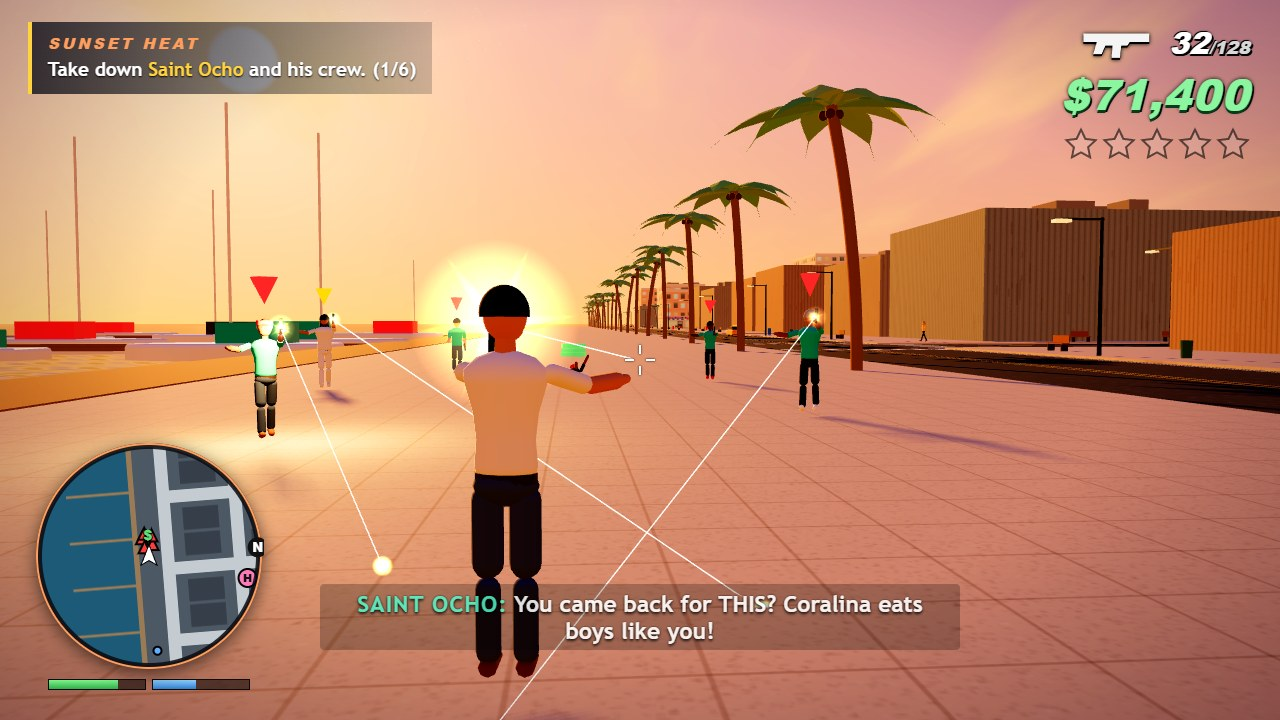
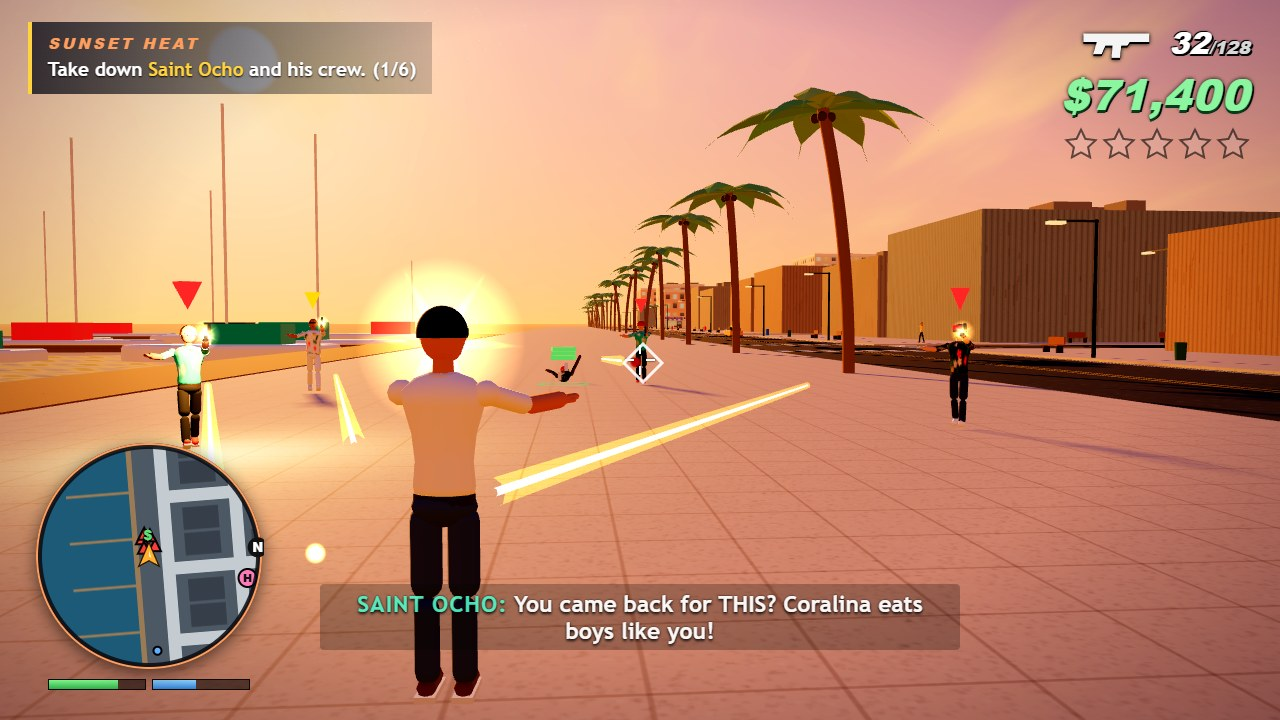
Polish: police livery and light spill, glowing tracers, better people
White/black CBPD cruisers with road light spill, helicopter searchlight
on the chase, short glowing tracer streaks, wider over-the-shoulder aim,
humanoids with ears, brows, sunglasses, hair styles, tropical-print
shirts, hands and soled shoes, a gold radar arrow, busier streets.

diff --git a/game/src/humanoid.js b/game/src/humanoid.js
@@ -11,6 +11,53 @@ function mat(color, rough = 0.75, metal = 0) {
   return matCache.get(key);
 }
 
+/** A tropical print for shirts: leaves and hibiscus over the base colour. */
+const printCache = new Map();
+function printTexture(base) {
+  if (printCache.has(base)) return printCache.get(base);
+  const c = document.createElement('canvas');
+  c.width = c.height = 128;
+  const d = c.getContext('2d');
+  const col = new THREE.Color(base);
+  d.fillStyle = '#' + col.getHexString();
+  d.fillRect(0, 0, 128, 128);
+  let seed = base % 997;
+  const r = () => ((seed = (seed * 16807) % 2147483647) / 2147483647);
+  for (let i = 0; i < 26; i++) {
+    const x = r() * 128;
+    const y = r() * 128;
+    d.save();
+    d.translate(x, y);
+    d.rotate(r() * 6.28);
+    if (r() < 0.55) {
+      d.fillStyle = r() < 0.5 ? 'rgba(20,90,50,0.85)' : 'rgba(40,140,80,0.8)';
+      d.beginPath();
+      d.ellipse(0, 0, 13, 4.5, 0, 0, Math.PI * 2);
+      d.fill();
+    } else {
+      d.fillStyle = ['#fff4e0', '#ff4f6d', '#ffd23f', '#ffffff'][Math.floor(r() * 4)];
+      for (let k = 0; k < 5; k++) {
+        d.rotate(1.2566);
+        d.beginPath();
+        d.ellipse(5, 0, 5, 3, 0, 0, Math.PI * 2);
+        d.fill();
+      }
+      d.fillStyle = '#7a2a10';
+      d.beginPath();
+      d.arc(0, 0, 2, 0, 6.28);
+      d.fill();
+    }
+    d.restore();
+  }
+  const t = new THREE.CanvasTexture(c);
+  t.colorSpace = THREE.SRGBColorSpace;
+  t.wrapS = t.wrapT = THREE.RepeatWrapping;
+  t.repeat.set(2, 1);
+  const m = new THREE.MeshStandardMaterial({ map: t, roughness: 0.8 });
+  printCache.set(base, m);
+  return m;
+}
+
 const G = {};
 function geos() {
   if (G.torso) return G;
@@ -30,7 +77,17 @@ function geos() {
   G.brim = new THREE.CylinderGeometry(0.0, 0.11, 0.015, 14, 1, false, -Math.PI / 2, Math.PI).translate(0, 0.05, 0.1);
   G.upperArm = new THREE.CapsuleGeometry(0.052, 0.2, 4, 8).translate(0, -0.13, 0);
   G.foreArm = new THREE.CapsuleGeometry(0.045, 0.2, 4, 8).translate(0, -0.12, 0);
-  G.hand = new THREE.SphereGeometry(0.05, 8, 6).scale(0.8, 1.1, 0.6).translate(0, -0.27, 0);
+  G.hand = new THREE.CapsuleGeometry(0.036, 0.06, 3, 8).scale(1.15, 1, 0.62).translate(0, -0.29, 0);
+  G.thumb = new THREE.CapsuleGeometry(0.014, 0.035, 3, 6).rotateZ(0.5).translate(0.03, -0.27, 0.015);
+  G.deltoid = new THREE.SphereGeometry(0.068, 10, 8).scale(1, 0.9, 0.95);
+  G.collar = new THREE.TorusGeometry(0.065, 0.018, 6, 14).rotateX(Math.PI / 2).translate(0, 0.6, 0.005);
+  G.ear = new THREE.SphereGeometry(0.026, 6, 6).scale(0.5, 1, 0.8);
+  G.brow = new THREE.BoxGeometry(0.04, 0.009, 0.012);
+  G.mouth = new THREE.BoxGeometry(0.045, 0.008, 0.01);
+  G.shades = new THREE.BoxGeometry(0.17, 0.035, 0.02);
+  G.sole = new THREE.BoxGeometry(0.1, 0.03, 0.24).translate(0, -0.465, 0.05);
+  G.bun = new THREE.SphereGeometry(0.06, 10, 8).translate(0, 0.08, -0.1);
+  G.afro = new THREE.SphereGeometry(0.15, 12, 10).scale(1.05, 0.95, 1.05).translate(0, 0.05, -0.02);
   G.thigh = new THREE.CapsuleGeometry(0.078, 0.3, 4, 8).translate(0, -0.2, 0);
   G.shin = new THREE.CapsuleGeometry(0.062, 0.3, 4, 8).translate(0, -0.2, 0);
   G.foot = new THREE.CapsuleGeometry(0.048, 0.14, 4, 8).rotateX(Math.PI / 2).translate(0, -0.42, 0.05);
@@ -50,11 +107,12 @@ export function randomLook(kind = 'civilian') {
   const look = {
     skin: pick(SKIN), hair: pick(HAIR), shirt: pick(SHIRTS), pants: pick(PANTS), shoes: pick([0x222222, 0xffffff, 0x8a5a3a, 0xd04040]),
     build: 0.9 + rand() * 0.22, height: 0.94 + rand() * 0.12, longHair: rand() < 0.4, shorts: rand() < 0.35, skirt: rand() < 0.15, cap: rand() < 0.15, capColor: pick(SHIRTS), vest: false,
+    print: rand() < 0.3, shades: rand() < 0.3, hairStyle: pick(['short', 'short', 'bun', 'afro', 'bald']),
   };
-  if (kind === 'cop') Object.assign(look, { shirt: 0x24365e, pants: 0x1c2741, shoes: 0x111111, cap: true, capColor: 0x1c2741, shorts: false, skirt: false, longHair: false, vest: true, vestColor: 0x2a2f36 });
-  if (kind === 'thug') Object.assign(look, { shirt: pick([0x14b8a6, 0x0f766e, 0x111111]), pants: pick([0x1f1f1f, 0x2b3a55]), cap: rand() < 0.6, capColor: 0xd7263d, shorts: false, skirt: false, longHair: false, build: 1.08 });
-  if (kind === 'player') Object.assign(look, { skin: 0xc98b62, hair: 0x1a120c, shirt: 0xf6f1e4, pants: 0x3a4a63, shoes: 0x6b3d24, longHair: false, shorts: false, skirt: false, cap: false, build: 1.05, height: 1.02, vest: false, vestColor: 0x34404c });
-  if (kind === 'boss') Object.assign(look, { shirt: 0xf2f2f2, pants: 0xf2f2f2, shoes: 0xf2f2f2, cap: false, build: 1.18, height: 1.05, shorts: false, skirt: false, hair: 0x111111 });
+  if (kind === 'cop') Object.assign(look, { print: false, shades: rand() < 0.5, hairStyle: 'short', shirt: 0x24365e, pants: 0x1c2741, shoes: 0x111111, cap: true, capColor: 0x1c2741, shorts: false, skirt: false, longHair: false, vest: true, vestColor: 0x2a2f36 });
+  if (kind === 'thug') Object.assign(look, { print: rand() < 0.5, hairStyle: 'short', shirt: pick([0x14b8a6, 0x0f766e, 0x111111]), pants: pick([0x1f1f1f, 0x2b3a55]), cap: rand() < 0.6, capColor: 0xd7263d, shorts: false, skirt: false, longHair: false, build: 1.08 });
+  if (kind === 'player') Object.assign(look, { print: false, shades: true, hairStyle: 'short', skin: 0xc98b62, hair: 0x1a120c, shirt: 0xf6f1e4, pants: 0x3a4a63, shoes: 0x6b3d24, longHair: false, shorts: false, skirt: false, cap: false, build: 1.05, height: 1.02, vest: false, vestColor: 0x34404c });
+  if (kind === 'boss') Object.assign(look, { print: true, shades: true, hairStyle: 'bald', shirt: 0xf2f2f2, pants: 0xf2f2f2, shoes: 0xf2f2f2, cap: false, build: 1.18, height: 1.05, shorts: false, skirt: false, hair: 0x111111 });
   return look;
 }
 
@@ -67,7 +125,7 @@ export class Humanoid {
     this.hips.position.y = 0.95;
     this.root.add(this.hips);
     const skin = mat(look.skin, 0.6);
-    const shirt = mat(look.shirt, 0.8);
+    const shirt = look.print ? printTexture(look.shirt) : mat(look.shirt, 0.8);
     const pants = mat(look.pants, 0.85);
     const shoes = mat(look.shoes, 0.5);
     const add = (parent, geo, material, x = 0, y = 0, z = 0) => {
@@ -87,6 +145,7 @@ export class Humanoid {
     if (look.vest) add(this.chest, g.vest, mat(look.vestColor || 0x2a2f36, 0.7)).scale.set(look.build * 1.02, 1, look.build * 1.05);
     if (look.skirt) add(this.hips, g.skirt, pants);
     add(this.chest, g.neck, skin, 0, 0.65, 0);
+    add(this.chest, g.collar, mat(new THREE.Color(look.shirt).multiplyScalar(0.8).getHex(), 0.8));
     this.head = new THREE.Group();
     this.head.position.y = 0.79;
     this.chest.add(this.head);
@@ -96,8 +155,17 @@ export class Humanoid {
     const eyeMat = mat(0x111111, 0.3);
     add(this.head, g.eye, eyeMat, -0.04, 0.015, 0.1);
     add(this.head, g.eye, eyeMat, 0.04, 0.015, 0.1);
-    add(this.head, g.hairShort, mat(look.hair, 0.9));
-    if (look.longHair) add(this.head, g.hairLong, mat(look.hair, 0.9));
+    const hairMat = mat(look.hair, 0.9);
+    const style = look.longHair ? 'long' : look.hairStyle || 'short';
+    if (style !== 'bald' || look.cap) add(this.head, style === 'afro' ? g.afro : g.hairShort, hairMat);
+    if (style === 'long') add(this.head, g.hairLong, hairMat);
+    if (style === 'bun') add(this.head, g.bun, hairMat);
+    for (const s of [-1, 1]) {
+      add(this.head, g.ear, skin, s * 0.105, 0, 0);
+      add(this.head, g.brow, hairMat, s * 0.04, 0.045, 0.104).rotation.z = s * -0.12;
+    }
+    add(this.head, g.mouth, mat(0x6a2a24, 0.6), 0, -0.07, 0.1);
+    if (look.shades) add(this.head, g.shades, mat(0x101418, 0.15, 0.6), 0, 0.018, 0.108);
     if (look.cap) {
       add(this.head, g.cap, mat(look.capColor, 0.7));
       add(this.head, g.brim, mat(look.capColor, 0.7));
@@ -107,12 +175,14 @@ export class Humanoid {
       const shoulder = new THREE.Group();
       shoulder.position.set(s * sw, 0.52, 0);
       this.chest.add(shoulder);
+      add(shoulder, g.deltoid, shirt);
       add(shoulder, g.upperArm, shirt);
       const elbow = new THREE.Group();
       elbow.position.y = -0.27;
       shoulder.add(elbow);
       add(elbow, g.foreArm, skin);
       add(elbow, g.hand, skin);
+      add(elbow, g.thumb, skin).rotation.y = s > 0 ? 0 : Math.PI;
       shoulder.rotation.z = s * 0.08;
       return { shoulder, elbow };
     });
@@ -126,6 +196,7 @@ export class Humanoid {
       hip.add(knee);
       add(knee, g.shin, look.shorts || look.skirt ? skin : pants);
       add(knee, g.foot, shoes);
+      add(knee, g.sole, mat(0xf2f2ee, 0.7));
       return { hip, knee };
     });
     // a pistol carried in the right hand, shown when armed

diff --git a/game/src/vehicles.js b/game/src/vehicles.js
@@ -34,7 +34,7 @@ export const VEHICLE_TYPES = {
   },
   police: {
     label: 'CBPD Interceptor', len: 4.7, wid: 1.95, wheelR: 0.38, wheelbase: 2.8, maxSpeed: 60, accel: 23, brake: 40, grip: 7, steer: 0.58, mass: 1.35,
-    colors: [0x101318],
+    colors: [0xf4f6f8],
     body: [[-2.35, 0.33], [2.32, 0.33], [2.38, 0.72], [1.3, 0.93], [-1.9, 0.97], [-2.36, 0.94], [-2.42, 0.6]],
     cabin: [[1.32, 0.92], [0.45, 1.42], [-1.0, 1.45], [-1.9, 0.96]],
   },
@@ -163,9 +163,22 @@ function buildModel(typeName, color) {
       door.rotation.y = s * Math.PI / 2;
       body.add(door);
     }
-    const hood = new THREE.Mesh(new THREE.BoxGeometry(T.wid * 0.84, 0.04, 1.0), paint(0xf4f6f8));
-    hood.position.set(0, 0.95, -1.4);
+    const hood = new THREE.Mesh(new THREE.BoxGeometry(T.wid * 0.86, 0.05, 1.1), paint(0x101318));
+    hood.position.set(0, 0.96, 1.75);
+    hood.rotation.x = 0.08;
     body.add(hood);
+    const trunk = new THREE.Mesh(new THREE.BoxGeometry(T.wid * 0.86, 0.05, 0.6), paint(0x101318));
+    trunk.position.set(0, 0.99, -2.05);
+    body.add(trunk);
+    const skirt = new THREE.Mesh(new THREE.BoxGeometry(T.wid + 0.02, 0.26, T.len * 0.92), paint(0x101318));
+    skirt.position.set(0, 0.47, 0);
+    body.add(skirt);
+    // red and blue light spilling onto the road round the cruiser
+    const spill = new THREE.Mesh(new THREE.PlaneGeometry(9, 11), new THREE.MeshBasicMaterial({ map: glowTexture(), color: 0xff2040, transparent: true, opacity: 0.5, blending: THREE.AdditiveBlending, depthWrite: false, toneMapped: false }));
+    spill.rotation.x = -Math.PI / 2;
+    spill.position.y = 0.07;
+    root.add(spill);
+    extras.spill = spill;
     const barY = Math.max(T.cabin[1][1], T.cabin[2][1]) + 0.14;
     const barZ = (T.cabin[1][0] + T.cabin[2][0]) / 2 + 0.2;
     const base = new THREE.Mesh(new THREE.BoxGeometry(1.3, 0.08, 0.3), m.dark);
@@ -397,6 +410,11 @@ export class Vehicle {
       const on = this.siren && (phase || Math.floor(t * 21) % 3 === 0);
       s.glow.visible = on;
       s.lamp.material.emissiveIntensity = on ? 4 : 0.3;
+    }
+    if (this.extras.spill) {
+      const red = Math.floor(t * 7) % 2 === 0;
+      this.extras.spill.visible = this.siren;
+      this.extras.spill.material.color.set(red ? 0xff2040 : 0x2a60ff);
     }
     const night = this.game.day ? this.game.day.nightAmount : 0;
     for (const b of this.beams) {

diff --git a/game/src/effects.js b/game/src/effects.js
@@ -34,7 +34,6 @@ export class Effects {
     this.scene.add(this.flashLight);
     this.flashT = 0;
     this.tracers = [];
-    this.tracerMat = new THREE.LineBasicMaterial({ color: 0xfff2b0, transparent: true, opacity: 0.9, blending: THREE.AdditiveBlending });
     this.markers = [];
   }
 
@@ -78,11 +77,27 @@ export class Effects {
     this.flashT = time;
   }
 
+  /** A short glowing streak travelling down the bullet's path. */
   tracer(from, to) {
-    const g = new THREE.BufferGeometry().setFromPoints([from.clone(), to.clone()]);
-    const line = new THREE.Line(g, this.tracerMat.clone());
+    const dir = to.clone().sub(from);
+    const dist = dir.length();
+    if (dist < 0.5) return;
+    dir.normalize();
+    const len = Math.min(5, dist * 0.6);
+    const mid = from.clone().addScaledVector(dir, Math.min(dist - len / 2, dist * 0.45 + len / 2));
+    if (!this.tracerGeo) {
+      this.tracerGeo = new THREE.CylinderGeometry(0.035, 0.012, 1, 6, 1, true);
+      this.tracerGlowGeo = new THREE.CylinderGeometry(0.12, 0.04, 1, 8, 1, true);
+    }
+    const core = new THREE.Mesh(this.tracerGeo, new THREE.MeshBasicMaterial({ color: 0xfff0b0, transparent: true, blending: THREE.AdditiveBlending, depthWrite: false, toneMapped: false }));
+    const glow = new THREE.Mesh(this.tracerGlowGeo, new THREE.MeshBasicMaterial({ color: 0xff8a20, transparent: true, opacity: 0.45, blending: THREE.AdditiveBlending, depthWrite: false, toneMapped: false }));
+    const line = new THREE.Group();
+    line.add(core, glow);
+    line.position.copy(mid);
+    line.quaternion.setFromUnitVectors(new THREE.Vector3(0, 1, 0), dir);
+    line.scale.set(1, len, 1);
     this.scene.add(line);
-    this.tracers.push({ line, t: 0.08 });
+    this.tracers.push({ line, t: 0.09, mats: [core.material, glow.material] });
   }
 
   sparks(x, y, z, n = 8) {
@@ -174,10 +189,11 @@ export class Effects {
     for (let i = this.tracers.length - 1; i >= 0; i--) {
       const tr = this.tracers[i];
       tr.t -= dt;
-      tr.line.material.opacity = Math.max(0, tr.t / 0.08);
+      tr.mats[0].opacity = Math.max(0, tr.t / 0.09);
+      tr.mats[1].opacity = Math.max(0, tr.t / 0.09) * 0.45;
       if (tr.t <= 0) {
         this.scene.remove(tr.line);
-        tr.line.geometry.dispose();
+        for (const m of tr.mats) m.dispose();
         this.tracers.splice(i, 1);
       }
     }

diff --git a/game/src/shots.js b/game/src/shots.js
@@ -69,7 +69,7 @@ const SCENES = {
     car.driver = 'player';
     p.position.copy(car.position);
     const cops = [];
-    for (const [z, off] of [[-32, 3.0], [-24, -0.2], [-14, 3.6]]) {
+    for (const [z, off] of [[-35.5, 0.2], [-31, 3.6], [-24, 1.2]]) {
       const pt = lane(z, off);
       const c = game.police.spawnCruiser(pt.x, pt.z, Math.PI);
       c.vx = 0; c.vz = -37;
@@ -96,7 +96,7 @@ const SCENES = {
       driveToward(car, 362.6, car.position.z - 40, 34, DT);
       car.controls.throttle = 1;
       car.controls.steer = -0.18;
-      if (game.police.heli) game.police.heli.pos.set(car.position.x - 9, 17, car.position.z + 34);
+      if (game.police.heli) game.police.heli.pos.set(car.position.x - 7, 19, car.position.z + 30);
     });
     car.controls.handbrake = false;
     const c = car.position;
@@ -118,12 +118,12 @@ const SCENES = {
     p.position.set(47.6, 0.16, -96);
     p.heading = Math.PI;
     p.current = 'fists';
-    for (const [x, z, tx, tz] of [[48.6, -112, 48.6, -40], [50.5, -126, 50.5, -30], [31, -104, 31, -180], [31.5, -88, 31.5, -170], [47.2, -140, 47.2, -40], [58, -129.4, 120, -129.4], [70, -130.6, 20, -130.6], [32, -140, 32, -40]]) {
+    for (const [x, z, tx, tz] of [[48.6, -121, 48.6, -200], [50.5, -126, 50.5, -200], [31, -104, 31, -180], [31.5, -88, 31.5, -170], [47.2, -140, 47.2, -200], [58, -129.4, 120, -129.4], [70, -130.6, 20, -130.6], [32, -140, 32, -40], [46.4, -112, 46.4, -200], [51.2, -108, 51.2, -200], [49.5, -118, 49.5, -200], [33, -118, 33, -30], [30.6, -126, 30.6, -200], [52, -134, 52, -30], [36, -129.2, 70, -129.2], [62, -130.8, 0, -130.8], [48, -150, 48, -40], [51.5, -160, 51.5, -40]]) {
       walker(game, x, z, tx, tz, 1.2 + (x % 3) * 0.15);
     }
     const north = { dx: 0, dz: -1 };
     const south = { dx: 0, dz: 1 };
-    for (const [along, dir, type] of [[-30, north, 'taxi'], [-60, north, 'sedan'], [-18, south, 'pickup'], [-48, south, 'sports'], [-70, north, 'sedan']]) {
+    for (const [along, dir, type] of [[-26, north, 'taxi'], [-52, north, 'sedan'], [-16, south, 'pickup'], [-42, south, 'sports'], [-68, north, 'police'], [-62, south, 'sedan'], [-12, north, 'sedan']]) {
       game.traffic.spawnAt(5, dir === north ? 3 : 2, dir, along, type);
     }
     startMission(game, 3, 0);

diff --git a/game/src/minimap.js b/game/src/minimap.js
@@ -145,15 +145,22 @@ export class Minimap {
     ctx.translate(cx, cy);
     ctx.rotate(ang);
     ctx.beginPath();
-    ctx.moveTo(0, -10);
-    ctx.lineTo(7, 8);
+    ctx.moveTo(0, -12);
+    ctx.lineTo(9, 9);
     ctx.lineTo(0, 4);
-    ctx.lineTo(-7, 8);
+    ctx.lineTo(-9, 9);
     ctx.closePath();
-    ctx.fillStyle = '#ffffff';
-    ctx.strokeStyle = '#000';
-    ctx.lineWidth = 2;
+    ctx.fillStyle = '#ffb02e';
+    ctx.strokeStyle = '#2a1400';
+    ctx.lineWidth = 2.5;
     ctx.stroke();
+    ctx.fill();
+    ctx.fillStyle = '#fff3c0';
+    ctx.beginPath();
+    ctx.moveTo(0, -6);
+    ctx.lineTo(2.5, 2);
+    ctx.lineTo(0, 0.5);
+    ctx.closePath();
     ctx.fill();
     ctx.restore();
     // rim and north

diff --git a/game/src/camera.js b/game/src/camera.js
@@ -68,8 +68,9 @@ export class CameraRig {
         // over the right shoulder
         const rx = -Math.cos(this.yaw);
         const rz = Math.sin(this.yaw);
-        this.target.x += rx * 0.65;
-        this.target.z += rz * 0.65;
+        this.target.x += rx * 0.95;
+        this.target.z += rz * 0.95;
+        this.target.y += 0.1;
         fovTarget = 52;
       }
     }
